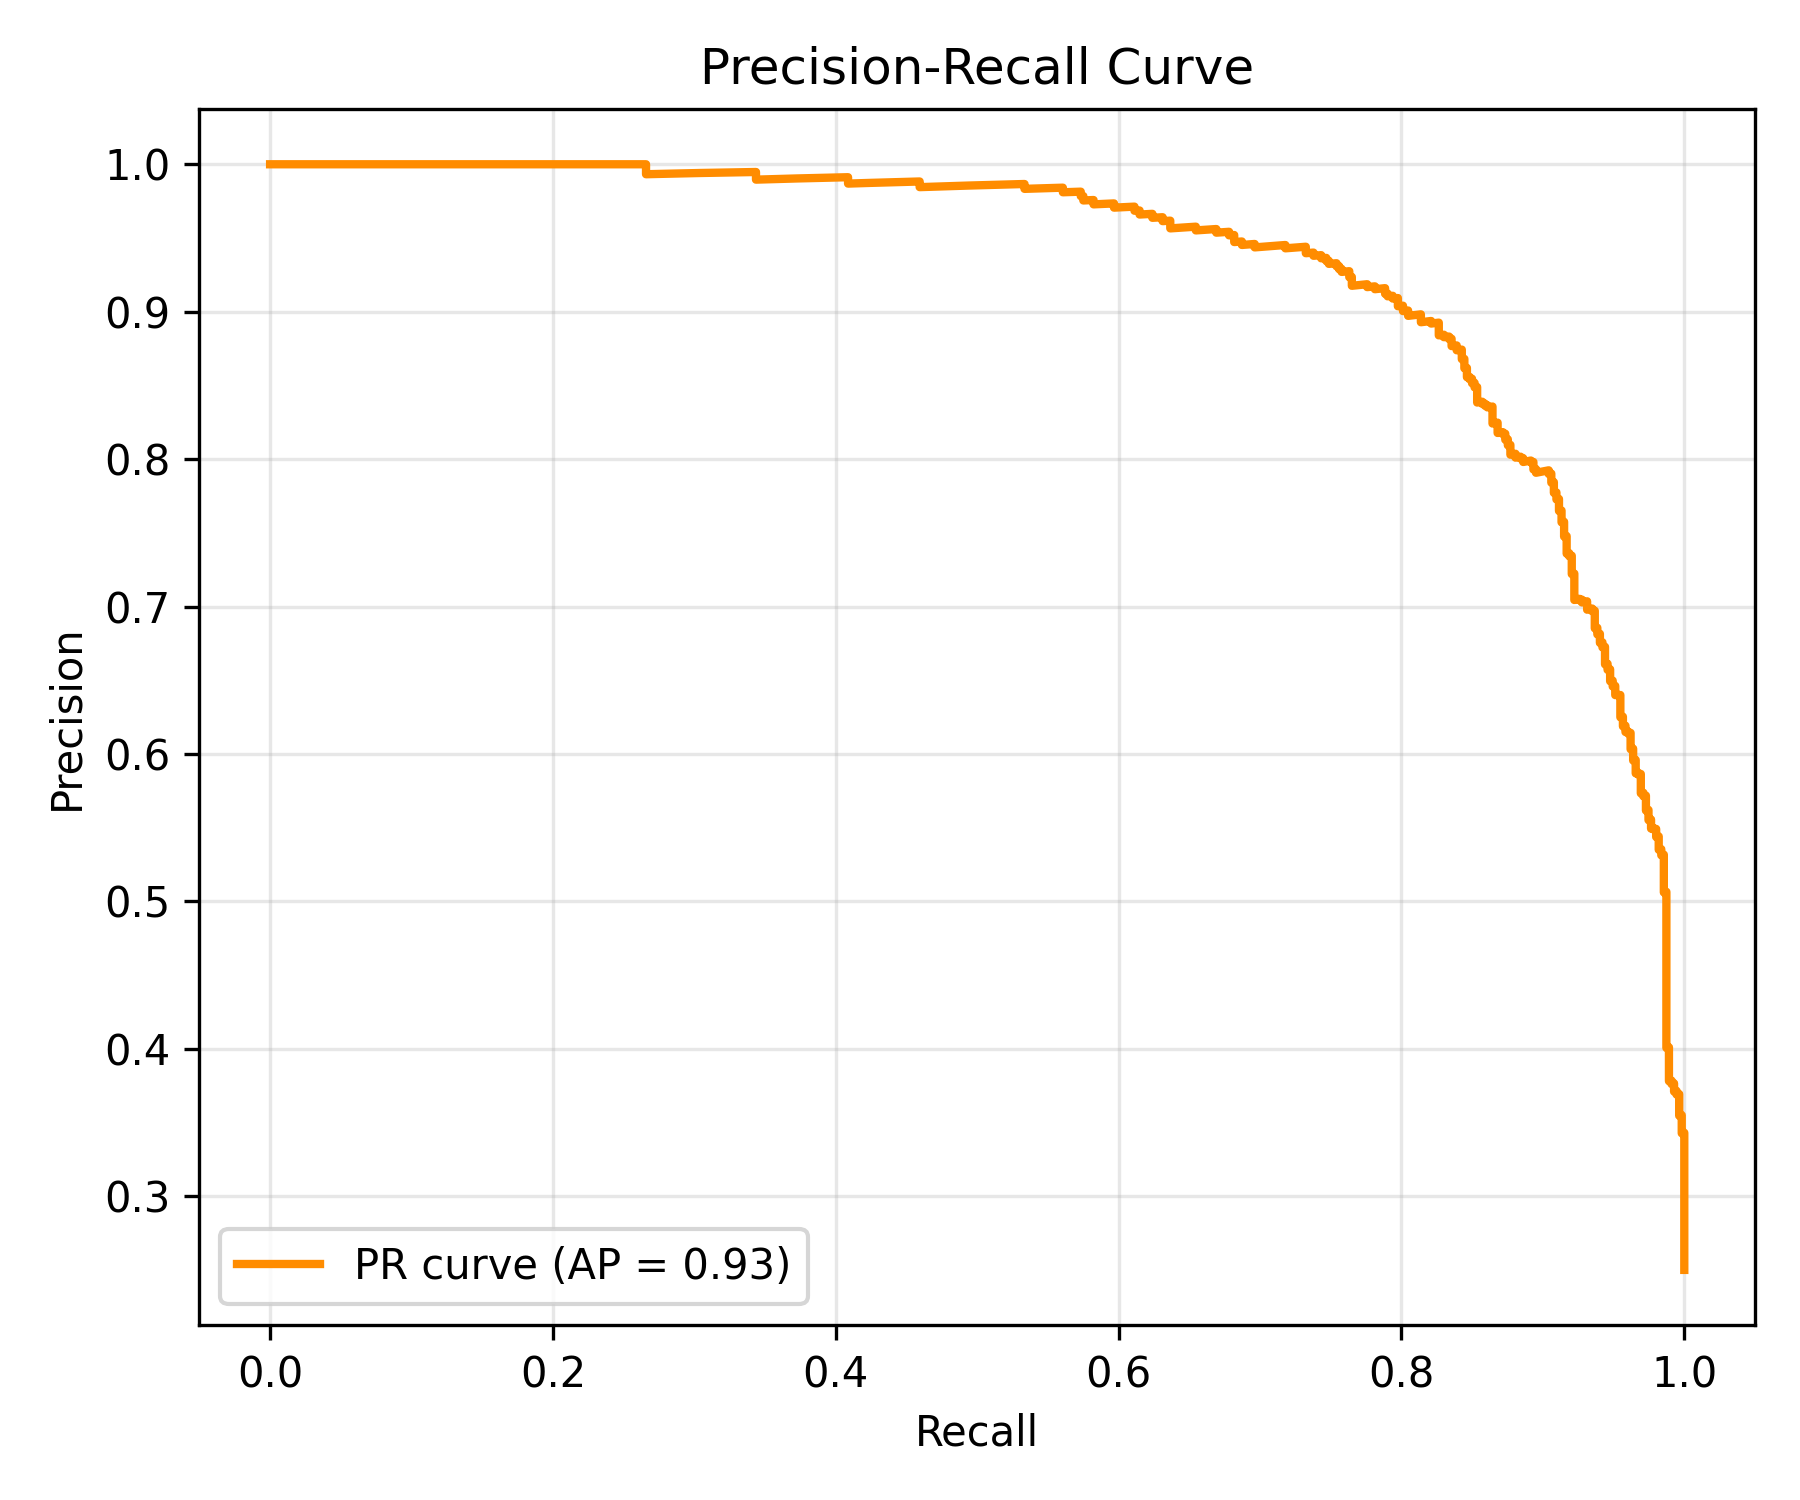
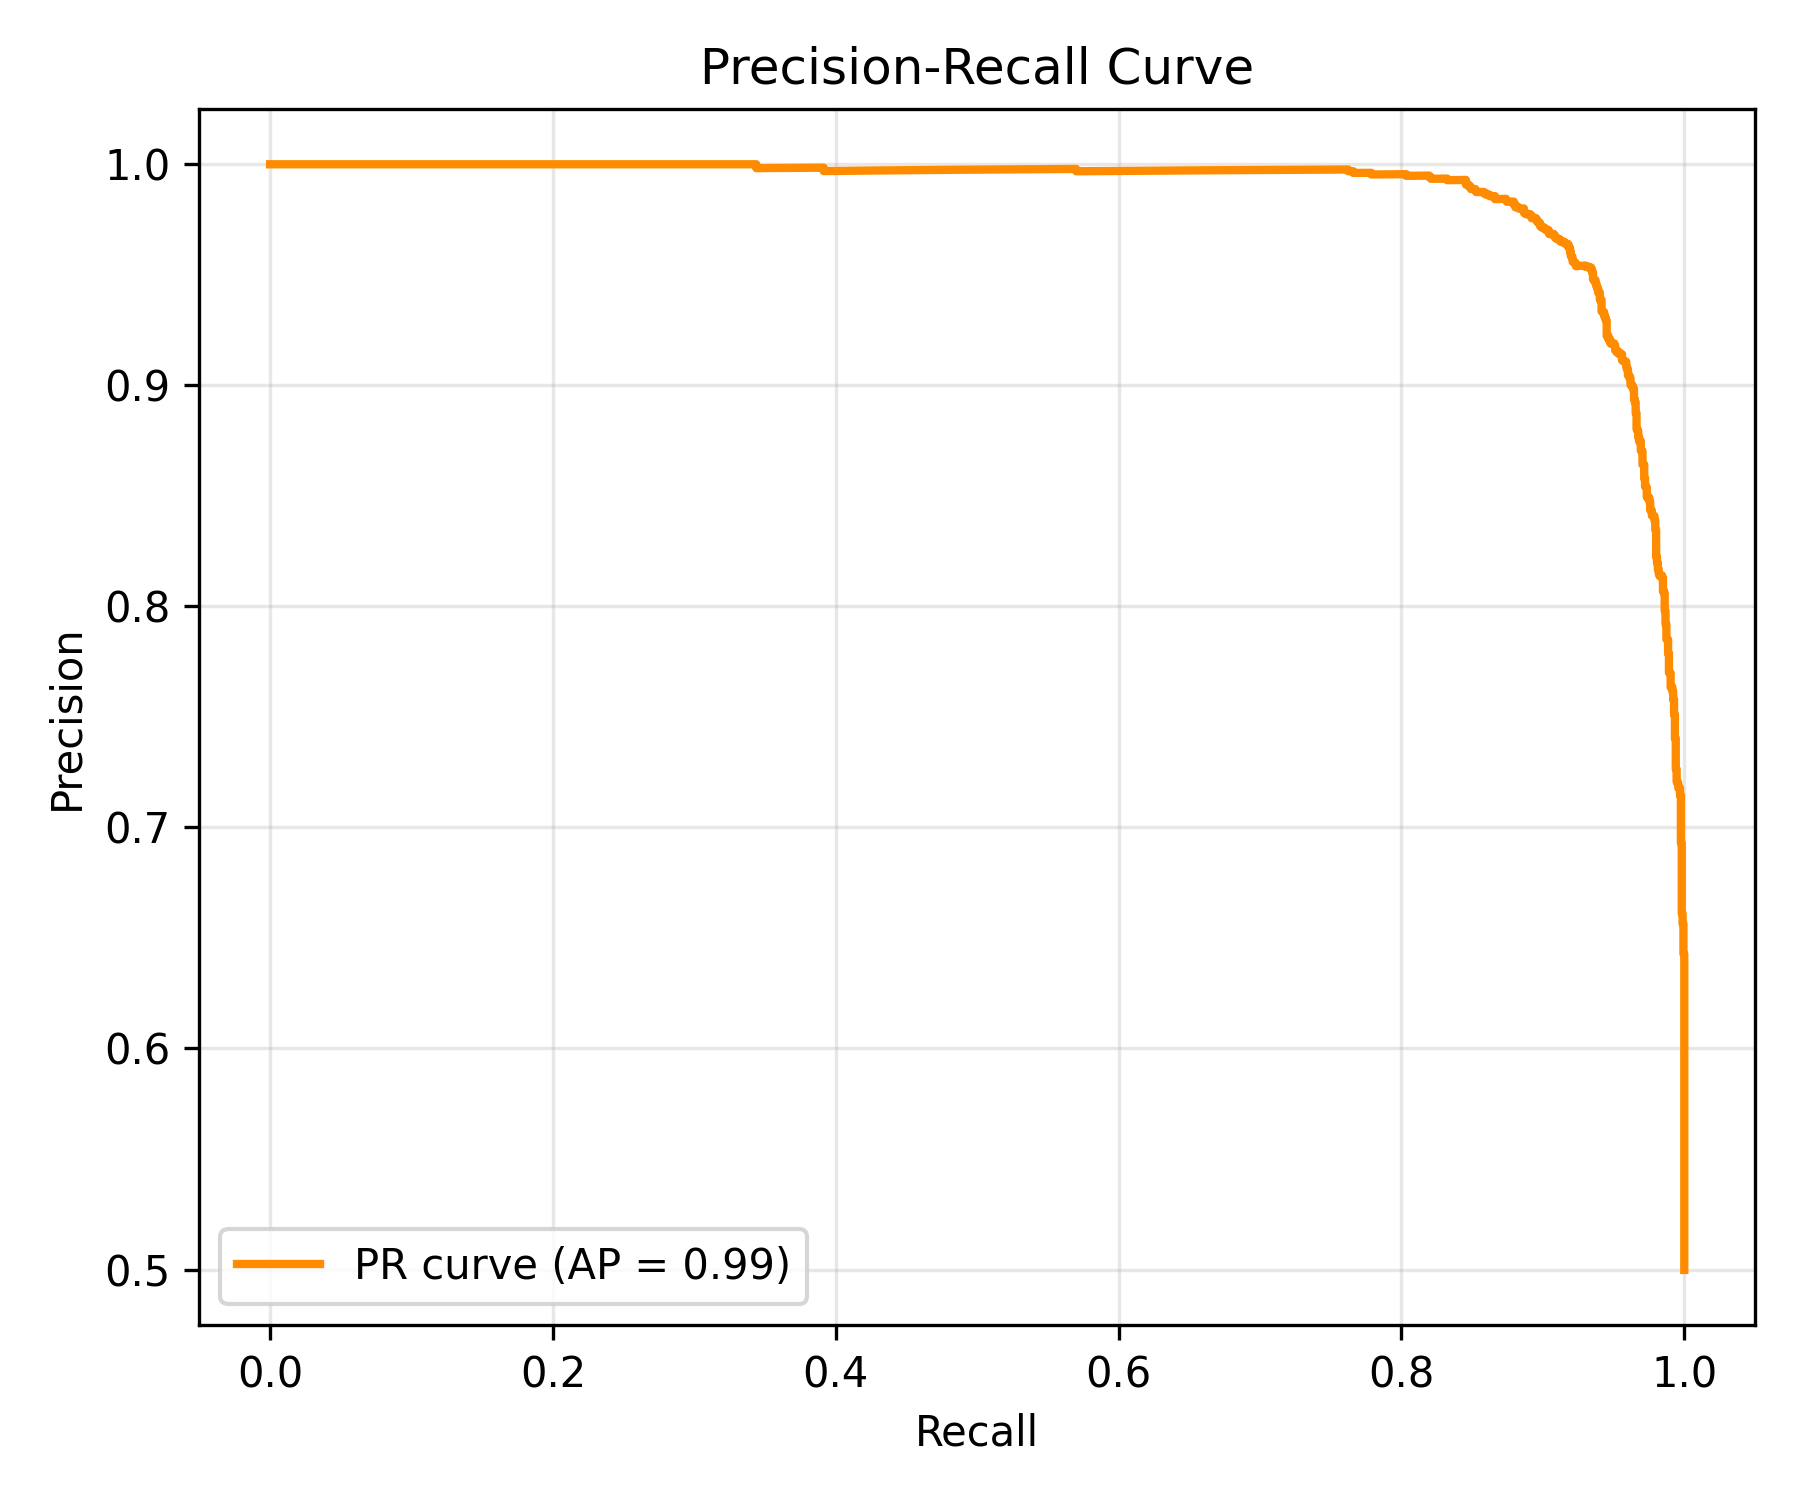
new training/Evaluation run

diff --git a/FineTuning/Train.py b/FineTuning/Train.py
@@ -14,7 +14,7 @@ from transformers import (
 
 MODEL_NAME = "distilbert-base-uncased"
 OUTPUT_DIR = "./claim_detection_model"
-DATA_FILE = "./datasets/3xNCS.json"
+DATA_FILE = "./datasets/balanced_training_data.json"
 
 def load_and_preprocess_data(json_path):
     """Loads the ClaimBuster JSON and splits it 80/20."""

diff --git a/FineTuning/Evaluate.py b/FineTuning/Evaluate.py
@@ -19,7 +19,7 @@ from transformers import (
 
 # --- Configuration ---
 MODEL_DIR = "./claim_detection_model"
-DATA_FILE = "./datasets/3xNCS.json"
+DATA_FILE = "./datasets/balanced_training_data.json"
 
 def load_test_data(json_path):
     """Recreates the exact 20% test split used during training."""
